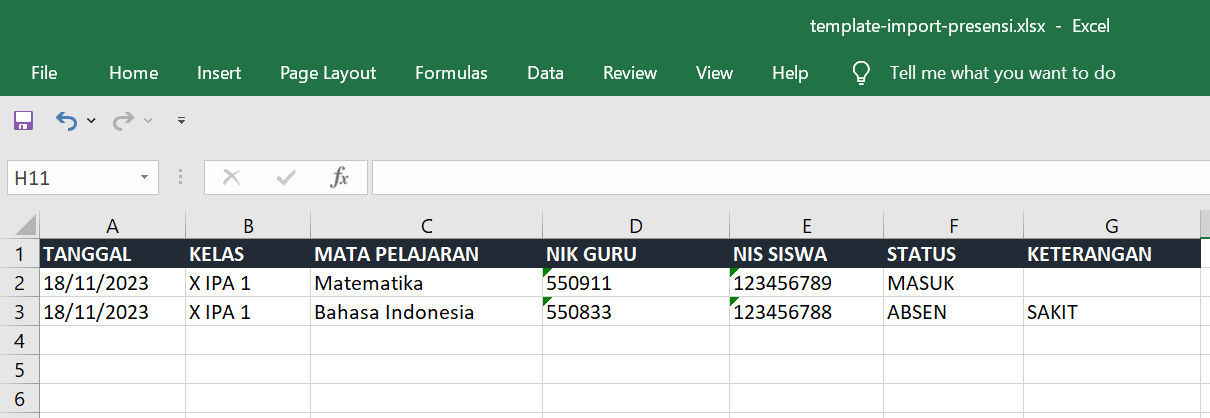
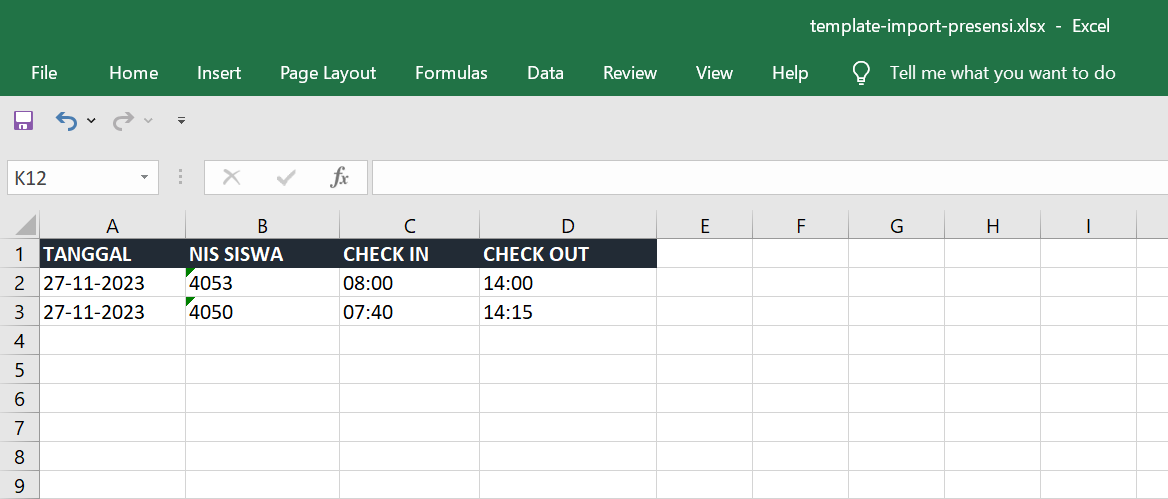
modul import presensi

diff --git a/backend/controllers/PresenceController.php b/backend/controllers/PresenceController.php
@@ -11,6 +11,7 @@ use yii\web\Response;
 use yii\web\Controller;
 use yii\web\NotFoundHttpException;
 use yii\filters\VerbFilter;
+use yii\web\UploadedFile;
 
 /**
  * PresenceController implements the CRUD actions for Presence model.
@@ -31,7 +32,7 @@ class PresenceController extends Controller
                         'allow' => true,
                     ],
                     [
-                        'actions' => ['index'],
+                        'actions' => ['index', 'import'],
                         'allow' => '@',
                     ],
                 ],
@@ -76,7 +77,7 @@ class PresenceController extends Controller
 
         // query
         $school_id = Yii::$app->session->get('school_id');
-        $query = Presence::find()->where(['school_id' => $school_id])->orderBy(['id' => SORT_DESC]);
+        $query = Presence::find()->where(['school_id' => $school_id])->orderBy(['updated_at' => SORT_DESC]);
         if ($startdate && $enddate) {
             $query->andFilterWhere([
                 'or',
@@ -245,5 +246,114 @@ class PresenceController extends Controller
         }
 
         return ['status' => 200, 'message' => "$successCount data berhasil disimpan"];
+    }
+
+    public function actionImport()
+    {
+        $school_id = Yii::$app->session->get('school_id');
+        $model = new Presence();
+
+        if ($model->load(Yii::$app->request->post())) {
+
+            $import = UploadedFile::getInstance($model, 'file');
+            if (isset($import)) {
+                $exploded_name = explode('.', $import->name);
+                $extension = end($exploded_name);
+                $model->file = Yii::$app->security->generateRandomString() . ".{$extension}";
+                $path = Yii::getAlias('@uploads/import/') . $model->file;
+                $import->saveAs($path);
+
+                $totalItem = 0;
+                $transaction = Yii::$app->db->beginTransaction();
+
+                $result = $this->populateDataExcel($path, 0);
+                if ($result['status'] == 'ERROR') {
+                    Yii::$app->session->setFlash('danger', $result['data']);
+                } else {
+                    $data = $result['data'];
+
+                    foreach ($data as $item) {
+                        $presence = Presence::find()
+                            ->where(['school_id' => $school_id, 'date' => $item['date'], 'status' => 'ACTIVE'])
+                            ->one();
+                        if (!$presence) {
+                            $student = $data['student'];
+                            $presence = new Presence();
+                            $presence->school_id = $school_id;
+                            $presence->student_id = $student->id;
+                            $presence->class = $student->class;
+                            $presence->date = $data['date'];
+                        }
+                        $presence->check_in = $data['check_in'];
+                        $presence->check_out = $data['check_out'];
+                        if ($presence->save()) {
+                            $totalItem++;
+                        }
+                    }
+                }
+                $transaction->commit();
+                Yii::$app->session->setFlash('success', $totalItem . ' data presensi berhasil diimport');
+                return $this->redirect(['index']);
+            }
+        }
+
+        return $this->render('import', [
+            'model' => $model,
+        ]);
+    }
+
+    private function populateDataExcel($fileName, $sheet = 0)
+    {
+
+        // PHP Excel init        
+        $phpexcel = \PHPExcel_IOFactory::load($fileName);
+        $worksheet = $phpexcel->getSheet($sheet);
+        $dataExcel = $worksheet->toArray();
+        $error = null;
+        $itemArray = [];
+        $row_number = 0;
+        if ($sheet == 0) {
+            foreach ($dataExcel as $rowExcelData) {
+                if ($row_number++ > 0 && $rowExcelData[0] !== null) {
+
+                    // check NIS student
+                    $student = Student::find()->where(['school_id' => Yii::$app->session->get('school_id'), 'nis' => $rowExcelData[1], 'status' => 'ACTIVE'])->one();
+                    if (!$student) {
+                        $error = 'NIS ' . $rowExcelData[1] . ' siswa pada baris ' . $row_number . ' tidak ditemukan';
+                        break;
+                    }
+
+                    // Cek apakah format waktu valid
+                    // Coba membuat objek DateTime dari string dengan format H:i
+                    $dateTimeCheckIn = \DateTime::createFromFormat('H:i', $rowExcelData[2]);
+                    $dateTimeCheckOut = \DateTime::createFromFormat('H:i', $rowExcelData[2]);
+
+                    // Periksa apakah berhasil dan apakah nilai yang diberikan sesuai dengan format H:i
+                    if ($dateTimeCheckIn->format('H:i') !== $rowExcelData[2] && $dateTimeCheckOut->format('H:i') !== $rowExcelData[3]) {
+                        $error = 'Format waktu checkin dan checkout pada baris ' . $row_number . ' tidak valid';
+                        break;
+                    }
+
+                    $itemArray[] = [
+                        'date' => date('Y-m-d', strtotime($rowExcelData[0])),
+                        'student' => $student,
+                        'check_in' => $rowExcelData[2],
+                        'check_out' => $rowExcelData[3],
+                    ];
+                }
+            }
+        }
+        @unlink($fileName);
+        if ($error != NULL) {
+            return [
+                'status' => 'ERROR',
+                'data' => $error
+            ];
+        } else {
+            return [
+                'status' => 'OK',
+                'data' => $itemArray
+            ];
+        }
     }
 }

diff --git a/backend/views/presence/import.php b/backend/views/presence/import.php
@@ -1,0 +1,52 @@
+<?php
+
+use yii\widgets\ActiveForm;
+use yii\helpers\Html;
+
+/* @var $this yii\web\View */
+/* @var $model common\models\Teacher */
+
+$this->title = 'Import Presensi';
+$this->params['breadcrumbs'][] = ['label' => 'Presensi', 'url' => ['index']];
+$this->params['breadcrumbs'][] = $this->title;
+
+$baseUrl = Yii::$app->request->baseUrl;
+?>
+<div class="teacher-create">
+
+    <?php $form = ActiveForm::begin(); ?>
+
+    <div class="row">
+        <div class="col-lg-6">
+            <div class="card">
+                <div class="card-body">
+                    <div class="callout callout-info">
+                        <h5>Panduan import</h5>
+                        <p>Daftar presensi selain diinput secara manual, bisa juga diimport dari dokumen Excel. Beberapa hal yang harus diperhatikan ketika melakukan import transaksi adalah import hanya bisa dilakukan oleh guru bersangkutan dan siswa belum pernah diabsen manual.
+                            Berikut adalah tampilan template excel untuk import data presensi:</p>
+                        </p>
+                        <p>
+                            <img src="<?= $baseUrl ?>/images/template-preview-presensi.png" width="100%">
+                        </p>
+                        <p>Download template import data presensi di sini: <br><a href="<?= $baseUrl ?>/template/template-import-presensi.xlsx" download="template-import-presensi.xlsx" style="color: #007bff;">TEMPLATE IMPORT KEHADIRAN.xlsx</a></p>
+                    </div>
+
+                    <?= $form->field($model, 'file')->fileInput() ?>
+                    <div class="form-group">
+                        <?php
+                        if ($model->isNewRecord) {
+                            echo Html::a('<i class="fas fa-chevron-left"></i> Kembali', ['lesson-schedule/index'], ['class' => 'btn btn-warning']);
+                        } else {
+                            echo Html::a('<i class="fas fa-chevron-left"></i> Kembali', ['lesson-schedule/view', 'id' => $model->id], ['class' => 'btn btn-warning']);
+                        }
+                        ?>
+                        <?= Html::submitButton('<i class="fas fa-save"></i> Import', ['class' => 'btn btn-success']) ?>
+                    </div>
+                </div>
+            </div>
+        </div>
+    </div>
+
+    <?php ActiveForm::end(); ?>
+
+</div>

diff --git a/backend/views/lesson-schedule/import.php b/backend/views/lesson-schedule/import.php
@@ -6,8 +6,8 @@ use yii\helpers\Html;
 /* @var $this yii\web\View */
 /* @var $model common\models\Teacher */
 
-$this->title = 'Import Presensi';
-$this->params['breadcrumbs'][] = ['label' => 'Presensi', 'url' => ['index']];
+$this->title = 'Import Kehadiran';
+$this->params['breadcrumbs'][] = ['label' => 'Kehadiran', 'url' => ['index']];
 $this->params['breadcrumbs'][] = $this->title;
 
 $baseUrl = Yii::$app->request->baseUrl;
@@ -26,9 +26,9 @@ $baseUrl = Yii::$app->request->baseUrl;
                             Berikut adalah tampilan template excel untuk import data presensi:</p>
                         </p>
                         <p>
-                            <img src="<?= $baseUrl ?>/images/template-preview-presensi.png" width="100%">
+                            <img src="<?= $baseUrl ?>/images/template-preview-kehadiran.png" width="100%">
                         </p>
-                        <p>Download template import data presensi di sini: <br><a href="<?= $baseUrl ?>/template/template-import-presensi.xlsx" download="template-import-presensi.xlsx" style="color: #007bff;">TEMPLATE IMPORT PresensiNSI.xlsx</a></p>
+                        <p>Download template import data kehadiran di sini: <br><a href="<?= $baseUrl ?>/template/template-import-kehadiran.xlsx" download="template-import-kehadiran.xlsx" style="color: #007bff;">TEMPLATE IMPORT KEHADIRAN.xlsx</a></p>
                     </div>
 
                     <?= $form->field($model, 'file')->fileInput() ?>

diff --git a/common/models/Presence.php b/common/models/Presence.php
@@ -24,6 +24,7 @@ use Yii;
  */
 class Presence extends \yii\db\ActiveRecord
 {
+    public $file;
     /**
      * {@inheritdoc}
      */
@@ -53,7 +54,7 @@ class Presence extends \yii\db\ActiveRecord
     {
         return [
             [['school_id', 'student_id'], 'integer'],
-            [['date', 'check_in', 'check_out', 'created_at', 'updated_at'], 'safe'],
+            [['date', 'check_in', 'check_out', 'created_at', 'updated_at', 'file'], 'safe'],
             [['class', 'status_check_in', 'status_check_out'], 'string', 'max' => 255],
             [['school_id'], 'exist', 'skipOnError' => true, 'targetClass' => School::className(), 'targetAttribute' => ['school_id' => 'id']],
             [['student_id'], 'exist', 'skipOnError' => true, 'targetClass' => Student::className(), 'targetAttribute' => ['student_id' => 'id']],
